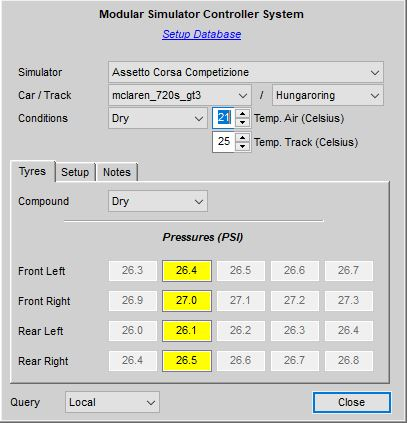
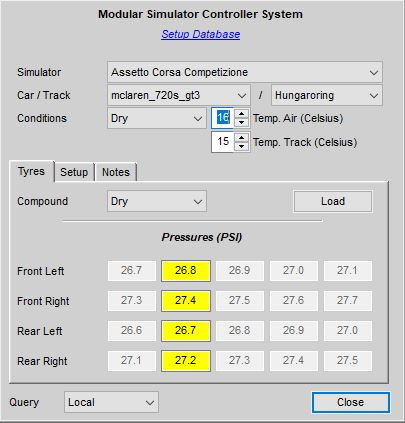
Moved Load button to Pressures Page in Setups Tool

diff --git a/Docs/Releases.md b/Docs/Releases.md
@@ -1,4 +1,4 @@
-## 3.0.4-release 05/23/21
+## 3.0.4-release 05/23/21 (planned)
 
   1. Bugfixes, as always
   2. Documentation updates, as always
